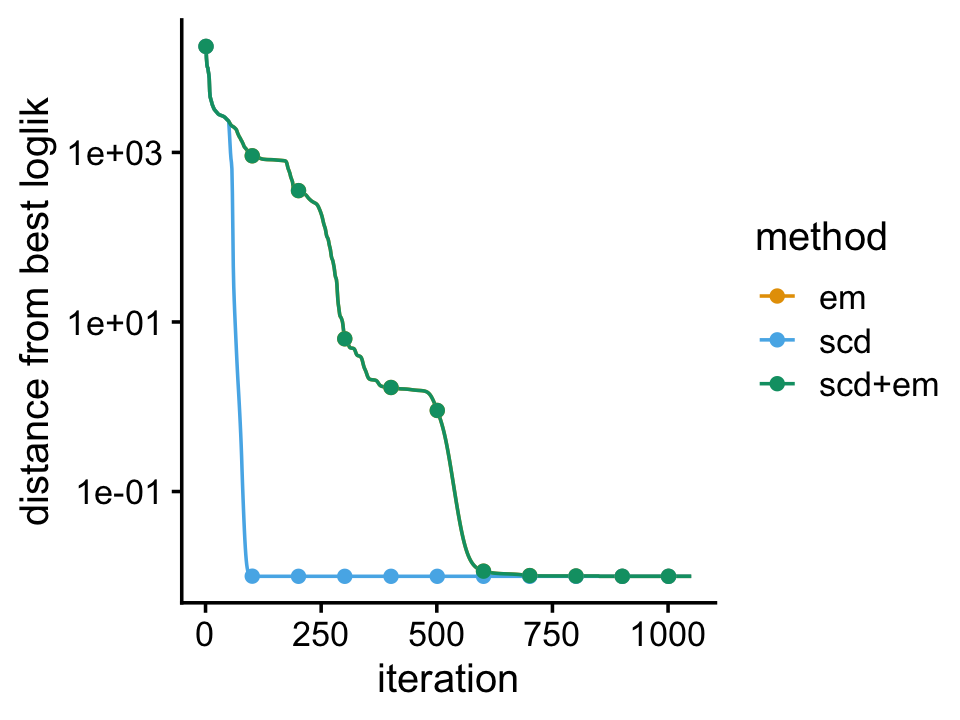
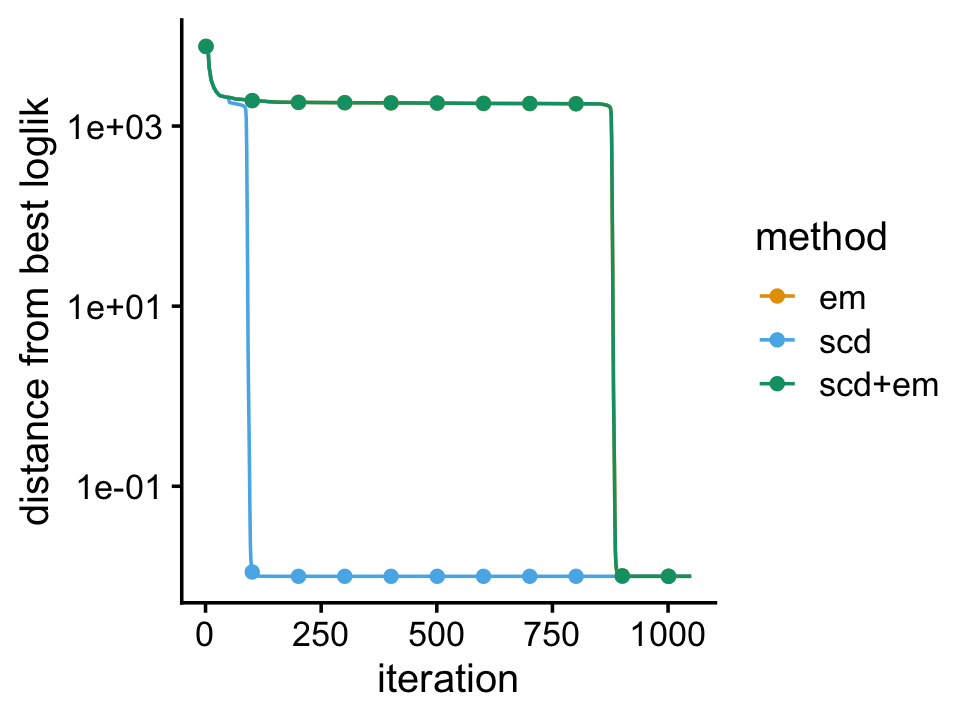
Adjusted parameters for second simulation in "smallsim" demo.

diff --git a/docs/smallsim.html b/docs/smallsim.html
@@ -414,16 +414,16 @@ This reproducible <a href="http://rmarkdown.rstudio.com">R Markdown</a> analysis
 <div class="panel panel-default">
 <div class="panel-heading">
 <p class="panel-title">
-<a data-toggle="collapse" data-parent="#workflowr-checks" href="#strongRepositoryversionstrongahrefhttpsgithubcomstephenslabfastTopicsexperimentstreeb9fac7160965e135174d291a9514ff1b4a25a10atargetblankb9fac71a"> <span class="glyphicon glyphicon-ok text-success" aria-hidden="true"></span> <strong>Repository version:</strong> <a href="https://github.com/stephenslab/fastTopics-experiments/tree/b9fac7160965e135174d291a9514ff1b4a25a10a" target="_blank">b9fac71</a> </a>
+<a data-toggle="collapse" data-parent="#workflowr-checks" href="#strongRepositoryversionstrongahrefhttpsgithubcomstephenslabfastTopicsexperimentstree6e8a2c4d9fd69aa70b5612ce55ac89e95196cfc4targetblank6e8a2c4a"> <span class="glyphicon glyphicon-ok text-success" aria-hidden="true"></span> <strong>Repository version:</strong> <a href="https://github.com/stephenslab/fastTopics-experiments/tree/6e8a2c4d9fd69aa70b5612ce55ac89e95196cfc4" target="_blank">6e8a2c4</a> </a>
 </p>
 </div>
[2 lines of base64/hex data omitted]
 <div class="panel-body">
 <p>
 Great! You are using Git for version control. Tracking code development and connecting the code version to the results is critical for reproducibility.
 </p>
 <p>
-The results in this page were generated with repository version <a href="https://github.com/stephenslab/fastTopics-experiments/tree/b9fac7160965e135174d291a9514ff1b4a25a10a" target="_blank">b9fac71</a>. See the <em>Past versions</em> tab to see a history of the changes made to the R Markdown and HTML files.
+The results in this page were generated with repository version <a href="https://github.com/stephenslab/fastTopics-experiments/tree/6e8a2c4d9fd69aa70b5612ce55ac89e95196cfc4" target="_blank">6e8a2c4</a>. See the <em>Past versions</em> tab to see a history of the changes made to the R Markdown and HTML files.
 </p>
 <p>
 Note that you need to be careful to ensure that all relevant files for the analysis have been committed to Git prior to generating the results (you can use <code>wflow_publish</code> or <code>wflow_git_commit</code>). workflowr only checks the R Markdown file, but you know if there are other scripts or data files that it depends on. Below is the status of the Git repository when the results were generated:
@@ -472,6 +472,40 @@ Message
 </tr>
 </thead>
 <tbody>
+<tr>
+<td>
+Rmd
+</td>
+<td>
+<a href="https://github.com/stephenslab/fastTopics-experiments/blob/6e8a2c4d9fd69aa70b5612ce55ac89e95196cfc4/analysis/smallsim.Rmd" target="_blank">6e8a2c4</a>
+</td>
+<td>
+Peter Carbonetto
+</td>
+<td>
+2021-03-07
+</td>
+<td>
+workflowr::wflow_publish(“smallsim.Rmd”)
+</td>
+</tr>
+<tr>
+<td>
+html
+</td>
+<td>
+<a href="https://rawcdn.githack.com/stephenslab/fastTopics-experiments/913316c00a417f7344117f36b0ec2d1d28eef90a/docs/smallsim.html" target="_blank">913316c</a>
+</td>
+<td>
+Peter Carbonetto
+</td>
+<td>
+2021-03-07
+</td>
+<td>
+Added structure plots to “smallsim” demo.
+</td>
+</tr>
 <tr>
 <td>
 Rmd
@@ -764,6 +798,43 @@ class(fit) &lt;- c(&quot;multinom_topic_model_fit&quot;,&quot;list&quot;)
 structure_plot(fit,topics = 1:6,perplexity = 30,Y_init = matrix(y),
                verbose = FALSE)</code></pre>
 <p><img src="figure/smallsim.Rmd/structure-plot-1-1.png" width="720" style="display: block; margin: auto;" /></p>
+<p>
+<button type="button" class="btn btn-default btn-xs btn-workflowr btn-workflowr-fig" data-toggle="collapse" data-target="#fig-structure-plot-1-1">
+Past versions of structure-plot-1-1.png
+</button>
+</p>
+<div id="fig-structure-plot-1-1" class="collapse">
+<div class="table-responsive">
+<table class="table table-condensed table-hover">
+<thead>
+<tr>
+<th>
+Version
+</th>
+<th>
+Author
+</th>
+<th>
+Date
+</th>
+</tr>
+</thead>
+<tbody>
+<tr>
+<td>
+<a href="https://github.com/stephenslab/fastTopics-experiments/blob/913316c00a417f7344117f36b0ec2d1d28eef90a/docs/figure/smallsim.Rmd/structure-plot-1-1.png" target="_blank">913316c</a>
+</td>
+<td>
+Peter Carbonetto
+</td>
+<td>
+2021-03-07
+</td>
+</tr>
+</tbody>
+</table>
+</div>
+</div>
 <p>Here we compare two different updates for fitting a Poisson NMF model to the simulated counts: EM updates, and sequential coordinate descent (SCD). The model fitting is initialized by first running 50 EM updates, with the aim of better ensuring that the same local maximum is recovered by both runs.</p>
 <pre class="r"><code>fit0 &lt;- fit_poisson_nmf(X,k,numiter = 50,method = &quot;em&quot;,
                         control = list(extrapolate = FALSE,numiter = 4))
@@ -809,6 +880,17 @@ Date
 <tbody>
 <tr>
 <td>
+<a href="https://github.com/stephenslab/fastTopics-experiments/blob/913316c00a417f7344117f36b0ec2d1d28eef90a/docs/figure/smallsim.Rmd/plot-progress-1-1.png" target="_blank">913316c</a>
+</td>
+<td>
+Peter Carbonetto
+</td>
+<td>
+2021-03-07
+</td>
+</tr>
+<tr>
+<td>
 <a href="https://github.com/stephenslab/fastTopics-experiments/blob/51c532110204c284dafd39d1172566530c2be8e6/docs/figure/smallsim.Rmd/plot-progress-1-1.png" target="_blank">51c5321</a>
 </td>
 <td>
@@ -850,8 +932,8 @@ Peter Carbonetto
 <h2>Correlated topics scenario</h2>
 <p><em>Add text here.</em></p>
 <pre class="r"><code>set.seed(1)
-S[5,6] &lt;- 10
-S[6,5] &lt;- 10
+S[5,6] &lt;- 8
+S[6,5] &lt;- 8
 L &lt;- simulate_loadings(n,k,S)
 X &lt;- simulate_multinom_counts(L,F,s)
 X &lt;- X[,colSums(X &gt; 0) &gt; 0]</code></pre>
@@ -864,6 +946,43 @@ class(fit) &lt;- c(&quot;multinom_topic_model_fit&quot;,&quot;list&quot;)
 structure_plot(fit,topics = 1:6,perplexity = 30,Y_init = matrix(y),
                verbose = FALSE)</code></pre>
 <p><img src="figure/smallsim.Rmd/structure-plot-2-1.png" width="720" style="display: block; margin: auto;" /></p>
+<p>
+<button type="button" class="btn btn-default btn-xs btn-workflowr btn-workflowr-fig" data-toggle="collapse" data-target="#fig-structure-plot-2-1">
+Past versions of structure-plot-2-1.png
+</button>
+</p>
+<div id="fig-structure-plot-2-1" class="collapse">
+<div class="table-responsive">
+<table class="table table-condensed table-hover">
+<thead>
+<tr>
+<th>
+Version
+</th>
+<th>
+Author
+</th>
+<th>
+Date
+</th>
+</tr>
+</thead>
+<tbody>
+<tr>
+<td>
+<a href="https://github.com/stephenslab/fastTopics-experiments/blob/913316c00a417f7344117f36b0ec2d1d28eef90a/docs/figure/smallsim.Rmd/structure-plot-2-1.png" target="_blank">913316c</a>
+</td>
+<td>
+Peter Carbonetto
+</td>
+<td>
+2021-03-07
+</td>
+</tr>
+</tbody>
+</table>
+</div>
+</div>
 <pre class="r"><code>fit0 &lt;- fit_poisson_nmf(X,k,numiter = 50,method = &quot;em&quot;,
                         control = list(extrapolate = FALSE,numiter = 4))
 fit1 &lt;- fit_poisson_nmf(X,fit0 = fit0,numiter = 800,method = &quot;em&quot;,
@@ -903,6 +1022,17 @@ Date
 </tr>
 </thead>
 <tbody>
+<tr>
+<td>
+<a href="https://github.com/stephenslab/fastTopics-experiments/blob/913316c00a417f7344117f36b0ec2d1d28eef90a/docs/figure/smallsim.Rmd/plot-progress-2-1.png" target="_blank">913316c</a>
+</td>
+<td>
+Peter Carbonetto
+</td>
+<td>
+2021-03-07
+</td>
+</tr>
 <tr>
 <td>
 <a href="https://github.com/stephenslab/fastTopics-experiments/blob/59a85948be8fa2d1ea13ad13b5c9f5d8c3590700/docs/figure/smallsim.Rmd/plot-progress-2-1.png" target="_blank">59a8594</a>
